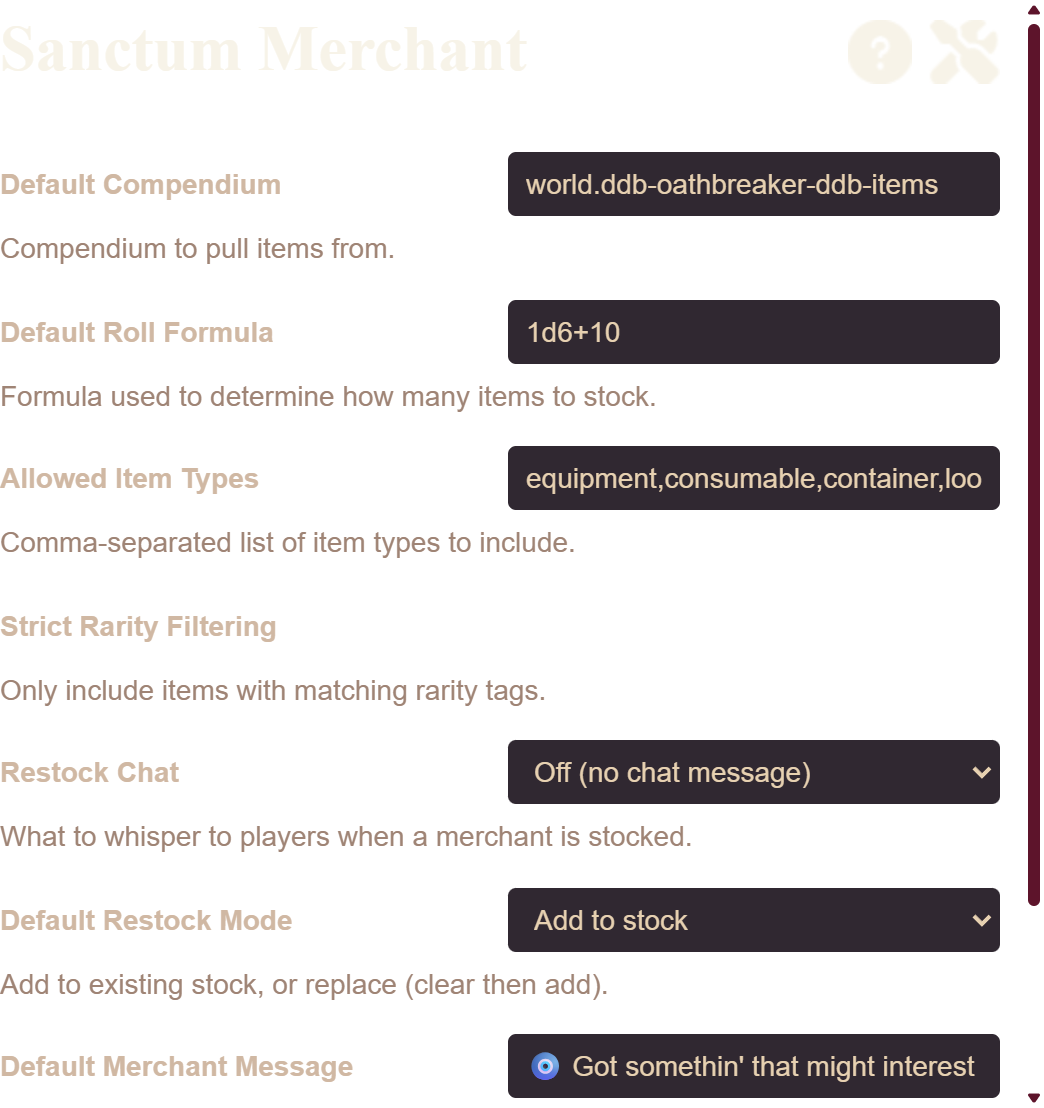
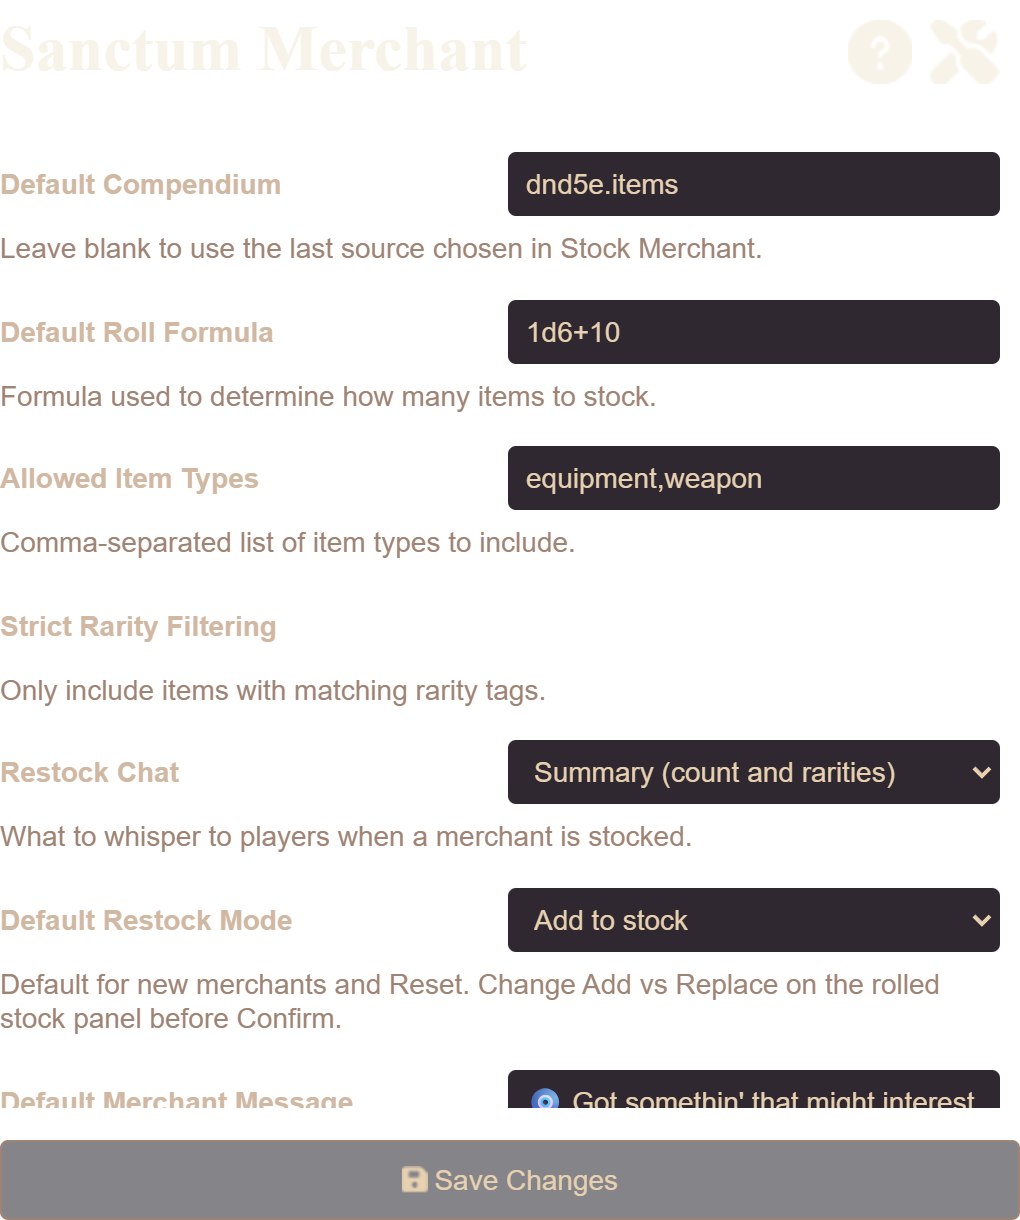
Update README and screenshots for 1.3.0
Replace 1.2.0 dialog, JSON import, roll preview, and settings shots. Document source preview, shop profiles, custom collections, prices, and Add vs Replace on the rolled list.

diff --git a/README.md b/README.md
@@ -11,7 +11,7 @@ Like my work? Buy me a coffee!
 ![Static Badge](https://img.shields.io/badge/Latest_Release-1.3.0-0?color=rgb(0%2C0%2C255))
 [![License](https://img.shields.io/badge/license-MIT-green)](LICENSE)
 
-A merchant stocking system with Item Piles integration for Foundry VTT. Automate shop inventories with rarity filtering, roll-based quantities, and items from compendiums or pasted JSON.
+A merchant stocking system with Item Piles integration for Foundry VTT. Roll shop inventories from Item packs or custom collections, preview the haul, then add or replace stock.
 
 **Current release: 1.3.0** — verified on Foundry Virtual Tabletop **Version 14 Stable (Build 367)**. See the [changelog](CHANGELOG.md).
 
@@ -23,7 +23,7 @@ A merchant stocking system with Item Piles integration for Foundry VTT. Automate
 - **1.1.0** — Foundry **V14** support (Application V2 dialogs, Actors-tab button, Item Piles header button).
 
 <img width="720" alt="Sanctum Merchant dialog targeting Buju The Merchant" src="docs/images/stock-merchant-dialog.png" />
-*Stock Merchant dialog (1.2.0): per-shop target, filters, add vs replace, restock chat, and Roll / Confirm Stock*
+*Stock Merchant (1.3.0): shop target, custom collections, shop profiles, Item Source preview, and Roll / Confirm Stock*
 
 ## Features
 
@@ -45,17 +45,18 @@ A merchant stocking system with Item Piles integration for Foundry VTT. Automate
 ### Flexible item sourcing
 
 - **Compendiums**: Item Source lists every Foundry **Item** pack (world, system, and modules), grouped by where it lives. Your Oathbreaker DDB gear is **DDB Items** under the World group.
+- **Source preview**: picking a pack shows item count, types, rarities, and example names before you roll.
 - **Custom collections**: import JSON or add items by hand. Collections are saved in the world and survive reload.
 - **JSON template**: insert, copy, or download a starter collection, preview the items, then save as a new collection or merge into an existing one.
-- **Add item**: name, type, rarity, optional price, and **Choose image** (Foundry file picker — browse the world or upload).
+- **Add item**: name, type, rarity, price with **CP / SP / EP / GP / PP**, and **Choose image** (Foundry file picker — browse the world or upload).
 - **Stock on merchant**: save that item to the collection and put it on the current shop without rolling.
 - **Stock selected / Stock all**: check items already in a collection and add them to the merchant with no roll.
-- **Edit / Delete**: change or remove items already in a collection.
+- **Edit / Delete**: change or remove items already in a collection. Double-click a row to open the item sheet.
 - **Dynamic types**: item types are read from the selected source.
 - **Last source remembered**: merchant flags first, then the last source used in Stock Merchant, then the first Item pack.
 
-<img width="720" alt="JSON import box in the Stock Merchant dialog" src="docs/images/json-import.png" />
-*Custom collections: import JSON, manage saved catalogs, or add a single item*
+<img width="720" alt="Custom collections: JSON template, add item with currency, and Harbor Market catalog" src="docs/images/json-import.png" />
+*Custom collections (1.3.0): JSON template, add/edit with gold-piece types, catalog with prices, Stock selected / Stock all*
 
 JSON collections use this shape. `name` is required on each item. `type` defaults to equipment, `rarity` to common. `price` is an amount; `priceDenomination` is `cp`, `sp`, `ep`, `gp`, or `pp` (gold if omitted).
 
@@ -84,9 +85,10 @@ Coin values: 100 cp = 1 gp, 10 sp = 1 gp, 2 ep = 1 gp, 1 pp = 10 gp.
 - **Rarity tags**: common through legendary, plus campaign tags (exotic, cursed, forged, sanctum-blessed).
 - **Strict vs loose**: exact rarity match, or all items with matching rarities weighted higher.
 - **Roll formula**: dice notation such as `1d6+2` for how many items to stock.
+- **Live match count**: how many items in the source match the current types and rarities, before you click Roll Stock.
 - **Restock chat**: Off (silent), Summary (count and rarities), or Full list of item names.
 
-Those controls live in the Stock Merchant dialog above: item type tags, rarity tags or a preset, strict filtering, restock mode, and restock chat. After you roll, **Add vs Replace** is also on the rolled stock panel so you can choose it at confirm time. The world setting is only the default. Rows show price. Double-click a rolled item or a custom collection item to open its full sheet.
+Those controls live in the Stock Merchant dialog: item type tags, rarity tags or a preset, strict filtering, restock mode, and restock chat. After you roll, **Add vs Replace** is also on the rolled stock panel so you can choose it at confirm time. The world setting is only the default. Rows show price. Double-click a rolled item or a custom collection item to open its full sheet.
 
 ### Shop profiles
 
@@ -144,12 +146,16 @@ Clone or copy the `sanctum-merchant` folder into Foundry’s `Data/modules` dire
 
 1. Select an Item Piles merchant token, or open its merchant window.
 2. Click **Stock Merchant** on the Actors tab or in the Item Piles window header.
-3. Choose a source, item types, rarity tags or a preset, restock mode (add or replace), chat mode, and a roll formula.
-4. Click **Roll Stock**. Uncheck any items you do not want, then **Confirm Stock**.
+3. Optionally apply a **Shop Profile**, then choose a source, item types, rarity tags or a preset, chat mode, and a roll formula.
+4. Click **Roll Stock**. Uncheck any items you do not want, set **Add** vs **Replace**, then **Confirm Stock**. Double-click a row for the full item sheet. **Discard Roll** clears the preview without closing the window.
 5. Filters are saved on that merchant. Use **Clear Inventory** to empty it, or **Audit Tags** to stock specific items.
+6. For a hand-built shop, expand **Custom collections**, add or import items, then **Stock selected** / **Stock all** — no roll required.
 
-<img width="720" alt="Rolled stock preview with item checkboxes" src="docs/images/stock-preview.png" />
-*Roll Stock preview: uncheck rows to skip them before Confirm Stock*
+<img width="720" alt="Rolled stock preview with restock mode and prices" src="docs/images/stock-preview-full.png" />
+*Roll Stock (1.3.0): source preview above, rolled list with prices and Add vs Replace, then Confirm Stock*
+
+<img width="720" alt="Rolled stock rows with prices and Discard roll" src="docs/images/stock-preview.png" />
+*Rolled list: uncheck rows to skip, choose restock mode, Discard Roll, or double-click to open the sheet*
 
 ### Filtering
 
@@ -157,45 +163,22 @@ Clone or copy the `sanctum-merchant` folder into Foundry’s `Data/modules` dire
 - **Rarity Tags / Presets**: which rarities to pull
 - **Strict Mode**: on = only those rarities; off = all items, with matching rarities favored
 - **Roll Formula**: how many items to add (for example `1d6+2`)
+- **Match count**: shown under Strict Filtering so you know if the roll would find nothing
 
 Items already on the merchant (same name) are not added again when using the direct fallback path.
-
-### JSON import format
-
-```json
-{
-  "name": "Custom Collection Name",
-  "items": [
-    {
-      "_id": "unique-item-id",
-      "name": "Magic Sword",
-      "type": "weapon",
-      "system": {
-        "rarity": "rare",
-        "description": {
-          "value": "<p>A gleaming magical blade...</p>"
-        }
-      },
-      "img": "icons/weapons/swords/sword-magic-glowing.webp"
-    }
-  ]
-}
-```
-
-JSON collections are stored in the world and stay until you delete them.
 
 ### Settings
 
 <img width="720" alt="Sanctum Merchant module settings" src="docs/images/module-settings.png" />
-*Module settings: default source, formula, types, restock chat, and add vs replace*
+*Module settings: default source, formula, types, restock chat, and default add vs replace*
 
 **Configure Settings → Module Settings → Sanctum Merchant**
 
-- **Default Compendium**
+- **Default Compendium** (leave blank to use the last source chosen in Stock Merchant)
 - **Default Roll Formula**
 - **Allowed Item Types**
 - **Strict Rarity Filtering**
-- **Default Restock Mode**: add to stock, or replace (clear then add)
+- **Default Restock Mode**: default for new merchants and Reset. Change Add vs Replace on the rolled list before Confirm.
 - **Restock Chat**: Off, Summary, or Full list of item names
 - **Merchant Message** (used for Summary and Full chat modes)
 
